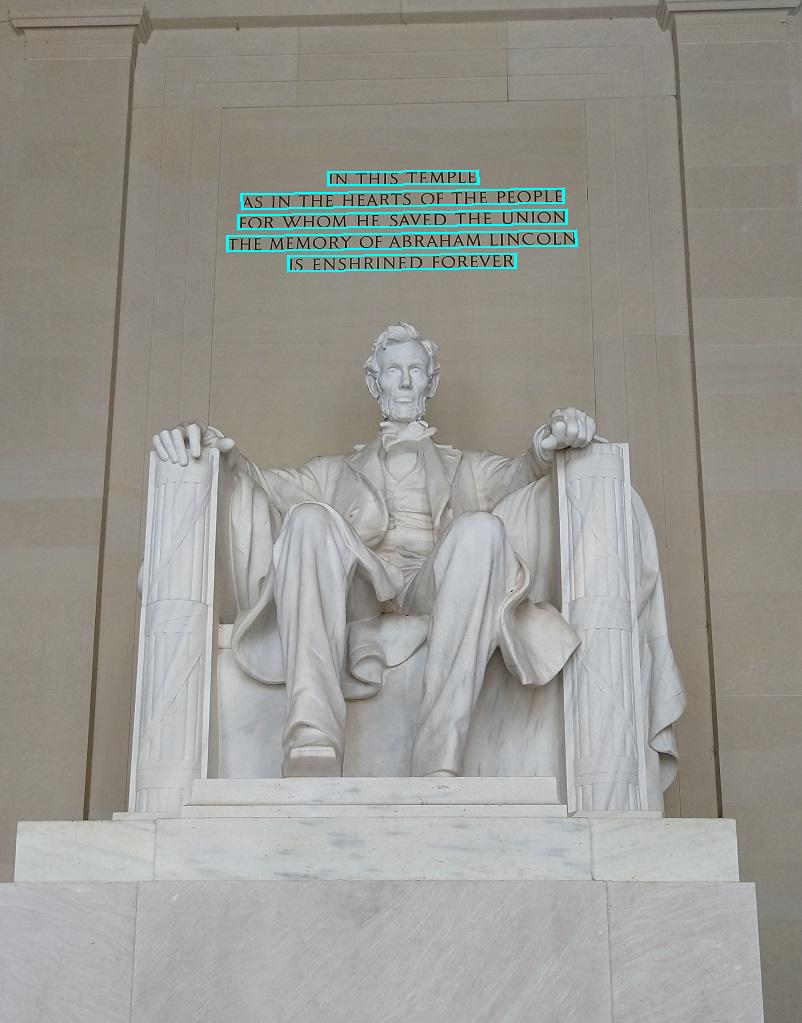
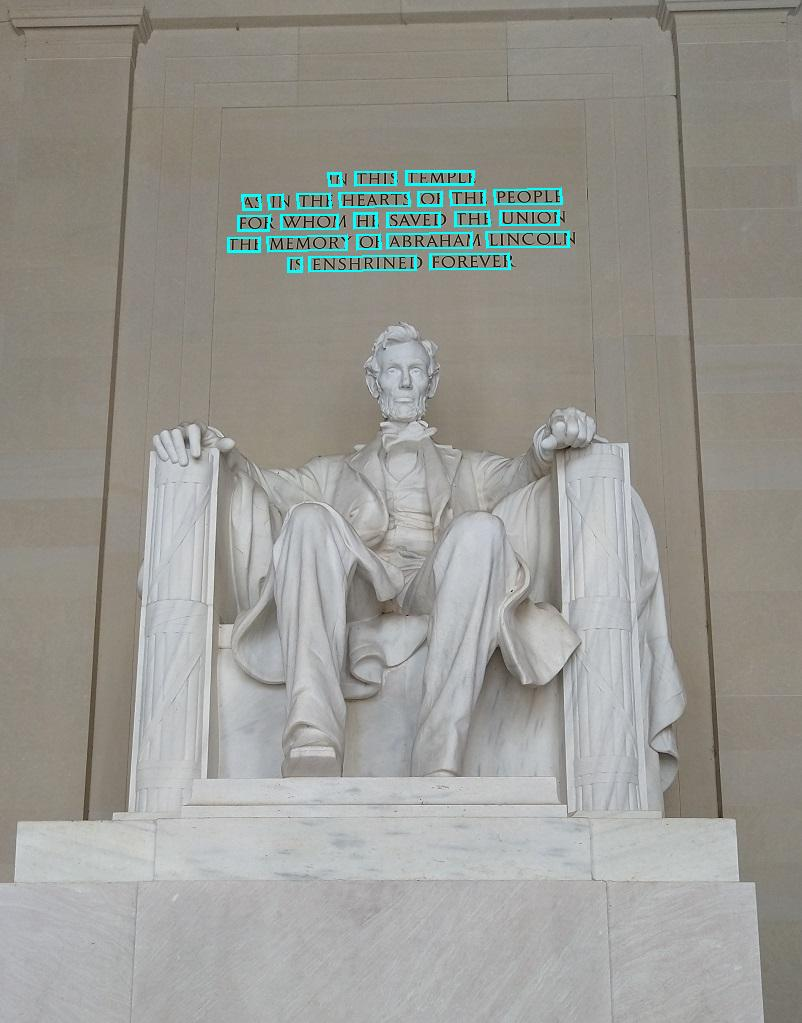
Return each word w/bounding box
1: Use Read API for image (Lincoln.jpg)
2: Read handwriting (Note.jpg)
Any other key to quit

Enter a number:1

Reading text in images\Lincoln.jpg

Text:
IN THIS TEMPLE
 Line: 'IN THIS TEMPLE', Bounding Polygon: ((327.0, 171.0), (478.0, 169.0), (479.0, 184.0), (327.0, 186.0))
  Word: 'IN', Bounding Polygon: ((327.0, 172.0), (341.0, 172.0), (342.0, 186.0), (328.0, 186.0)), Confidence: 0.998
  Word: 'THIS', Bounding Polygon: ((354.0, 171.0), (396.0, 170.0), (396.0, 185.0), (354.0, 186.0)), Confidence: 0.989
  Word: 'TEMPLE', Bounding Polygon: ((405.0, 170.0), (474.0, 170.0), (473.0, 185.0), (405.0, 185.0)), Confidence: 0.997
AS IN THE HEARTS OF THE PEOPLE
 Line: 'AS IN THE HEARTS OF THE PEOPLE', Bounding Polygon: ((240.0, 193.0), (564.0, 187.0), (564.0, 203.0), (241.0, 210.0))
  Word: 'AS', Bounding Polygon: ((241.0, 194.0), (260.0, 194.0), (261.0, 210.0), (242.0, 210.0)), Confidence: 0.997
  Word: 'IN', Bounding Polygon: ((267.0, 194.0), (283.0, 193.0), (284.0, 209.0), (268.0, 210.0)), Confidence: 0.998
  Word: 'THE', Bounding Polygon: ((296.0, 193.0), (330.0, 192.0), (331.0, 208.0), (297.0, 209.0)), Confidence: 0.998
  Word: 'HEARTS', Bounding Polygon: ((338.0, 192.0), (409.0, 191.0), (410.0, 206.0), (339.0, 208.0)), Confidence: 0.997
  Word: 'OF', Bounding Polygon: ((417.0, 191.0), (442.0, 190.0), (442.0, 206.0), (417.0, 206.0)), Confidence: 0.998
  Word: 'THE', Bounding Polygon: ((449.0, 190.0), (485.0, 189.0), (485.0, 205.0), (450.0, 206.0)), Confidence: 0.998
[…]

Changed region(s): [[0.2805, 0.1515, 0.717, 0.2727]]

diff --git a/Labfiles/05-ocr/Python/read-text/read-text.py b/Labfiles/05-ocr/Python/read-text/read-text.py
@@ -88,6 +88,14 @@ def GetTextRead(image_file):
 
 
                 # Return each word detected in the image and the position bounding box around each word with the confidence level of each word
+                for word in line.words:
+                    r = word.bounding_polygon
+                    bounding_polygon = ((r[0], r[1]),(r[2], r[3]),(r[4], r[5]),(r[6], r[7]))
+                    print("  Word: '{}', Bounding Polygon: {}, Confidence: {}".format(word.content, bounding_polygon,word.confidence))
+
+                    # Draw word bounding polygon
+                    drawLinePolygon = False
+                    draw.polygon(bounding_polygon, outline=color, width=3)
 
 
 
